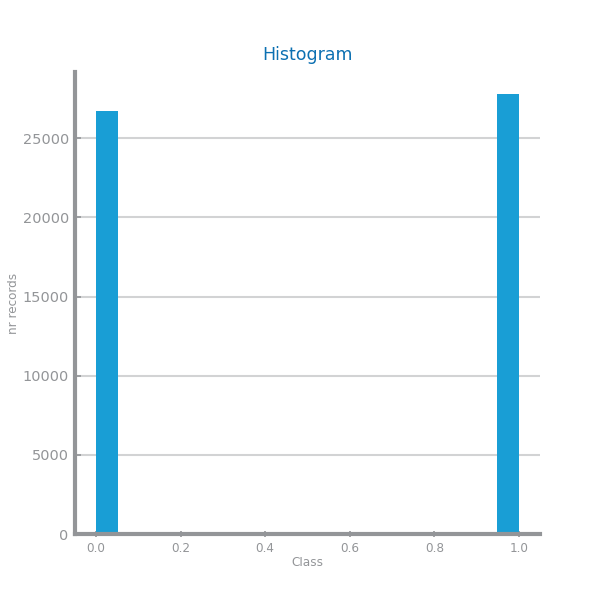
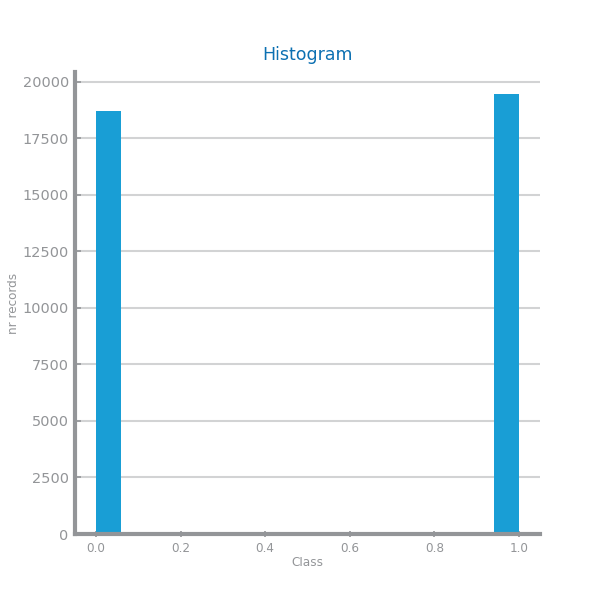
pppp

diff --git a/droughtDataset/lab3/balancing.py b/droughtDataset/lab3/balancing.py
@@ -4,7 +4,7 @@ from ds_charts import bar_chart
 
 # READING
 
-filename = '../Data/drought_scaled.csv'
+filename = '../Data/TrainTest/drought_prepared_train.csv'
 file = "drought_scaled"
 original = read_csv(filename, sep=',', decimal='.')
 
